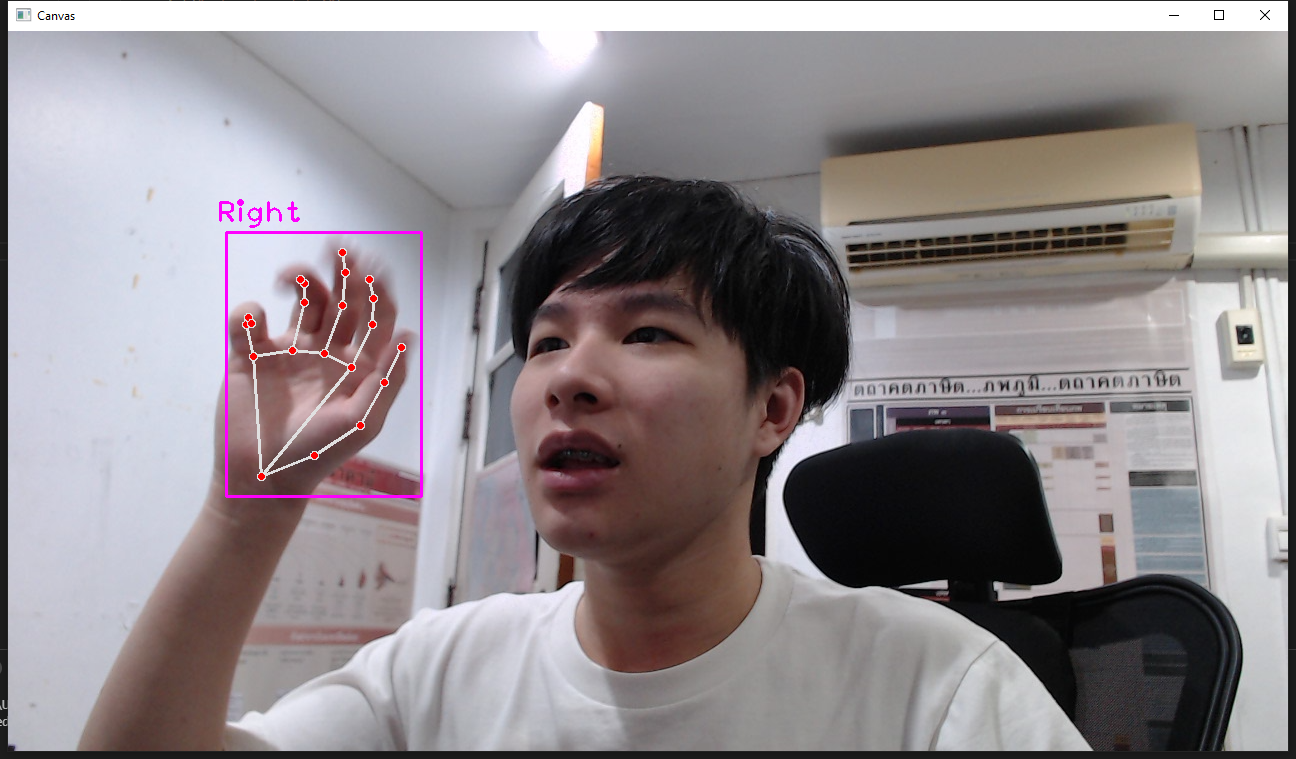
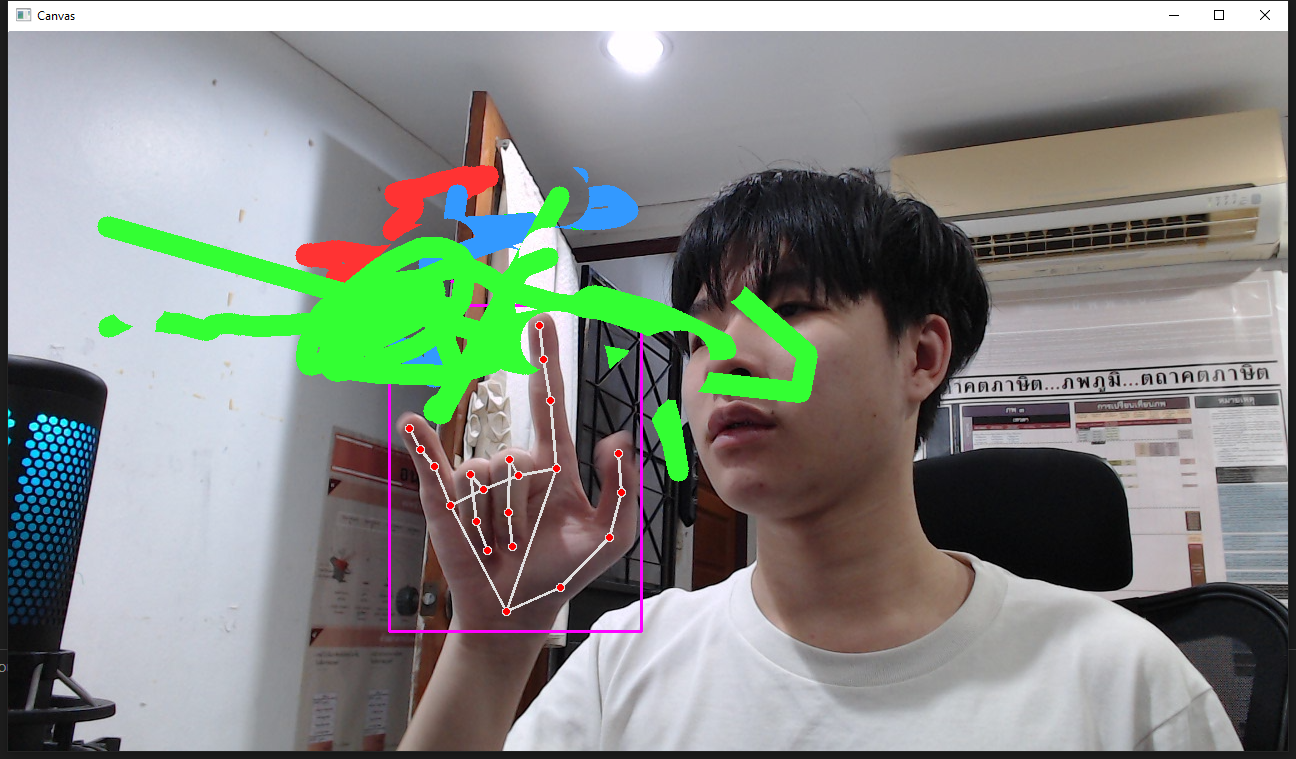
tools bar and more cmd

diff --git a/handtracking.py b/handtracking.py
@@ -12,11 +12,25 @@ from PIL import Image
 
 r = sr.Recognizer()
 
+control_path = "controlhead"
+mycontrol = os.listdir(control_path)
+controller_list = []
+for index_me in mycontrol:
+    image_reader = cv2.imread(f'{control_path}/{index_me}')
+    controller_list.append(image_reader)
+print("png head file ",controller_list)
+
+control_tab = controller_list[0]
+control_tab_off = controller_list[1]
+# print("list1 ",control_tab)
+# print("list2 ",controller_list[1])
+
 draw_mode = [0, 1, 0, 0, 0]
 erase_mode = [0, 1, 1, 0, 0]
+idle_mode = [0, 1, 1, 1, 0]
 cap_all = [1, 1, 1, 1, 1]
 clear_all = [0, 0, 0, 0, 0]
-voice_cmd = [1, 1, 1, 1, 0]
+voice_cmd = [1, 1, 0, 0, 1]
 blue_color = (255, 0, 0)
 black_color = (0, 0, 0)
 idk_color = (0, 255, 0)
@@ -24,6 +38,8 @@ brush_thick = 20
 eraser_thick = 60
 canvas_show = 0
 running_main = True
+over = False
+show_tab = True
 
 deb = 0
 timer = 0
@@ -43,9 +59,11 @@ while running_main:
     # 1. Read capture
     
     success, img = capture.read()
+    
 
     # 2. Find Hand Landmarks
     hands, img = detector.findHands(img, flipType=True)
+
 
     if hands:
         lmList = hands[0]["lmList"]  # List of 21 Landmark points
@@ -80,6 +98,47 @@ while running_main:
             x_point, y_point = x1, y1
         elif fingers == cap_all:
             print("capture all")
+        elif fingers == idle_mode:
+            print("idling")
+            print("x1, ",x1," y1 ",y1)
+            cv2.rectangle(img,(x1,y1-25),(x2,y2+25),idk_color,cv2.FILLED)
+            if y1 < 85:
+                if 60 < x1 < 100:
+                    print("hide")
+                    show_tab = False
+                elif 160 < x1 < 200:
+                    print("save")
+                    print("saving...")
+                    save_path = 'savecanvas.png'
+                    all_titles = pygetwindow.getAllTitles()
+                    print(all_titles)
+                    save_window = pygetwindow.getWindowsWithTitle('Canvas')[0]
+                    xx1 = save_window.left
+                    yy1 = save_window.top
+                    height_1 = save_window.height
+                    width_1 = save_window.width
+                    xx2 = xx1 + width_1
+                    yy2 = yy1 + height_1
+                    pyautogui.screenshot(save_path)
+                    im = Image.open(save_path)
+                    im = im.crop((xx1,yy1,xx2,yy2))
+                    im.save(save_path)
+                    print("saved")
+                elif 260 < x1 < 350:
+                    print("red")
+                    idk_color = (51, 51, 255)
+                elif 400 < x1 < 480:
+                    print("blue")
+                    idk_color = (255, 153, 51)
+                elif 540 < x1 < 640:
+                    print("green")
+                    idk_color = (51, 255, 51)
+                elif 720 < x1 < 800:
+                    print("clear")
+                elif 830 < x1 < 865:
+                    print("quit")
+                    over = True
+
         elif fingers == voice_cmd:
             print("voice reg")
             with sr.Microphone() as source:
@@ -140,7 +199,11 @@ while running_main:
                         print("saved")
                     elif text == "exit" or "exit" in text:
                         print("exiting...")
-                        sys.exit(0)
+                        over = True
+                    elif text == "show" or "show" in text:
+                        show_tab =True
+                    elif text == "blind" or "blind" in text:
+                        show_tab =True
 
 
 
@@ -155,13 +218,20 @@ while running_main:
     img = cv2.bitwise_and(img, imgInv)
     img = cv2.bitwise_or(img, blackCanvas)
 
+
+    #img[0:103,0:926] = control_tab
+    if show_tab == True:
+        img[0:98,0:921] = control_tab
+        #img[0:1,0:1] = control_tab_off
+    else:
+        img[0:1,0:1] = control_tab_off
     if canvas_show == 0:
         cv2.imshow("Canvas", img)
     elif canvas_show == 1:
         cv2.imshow("Black", blackCanvas)
     # cv2.imshow("Inv", imgInv)
 
-    if cv2.waitKey(1) == ord('q'):
+    if cv2.waitKey(1) == ord('q') or over == True:
         break
 
     # lmList = detector.findPosition(img, draw=False)
